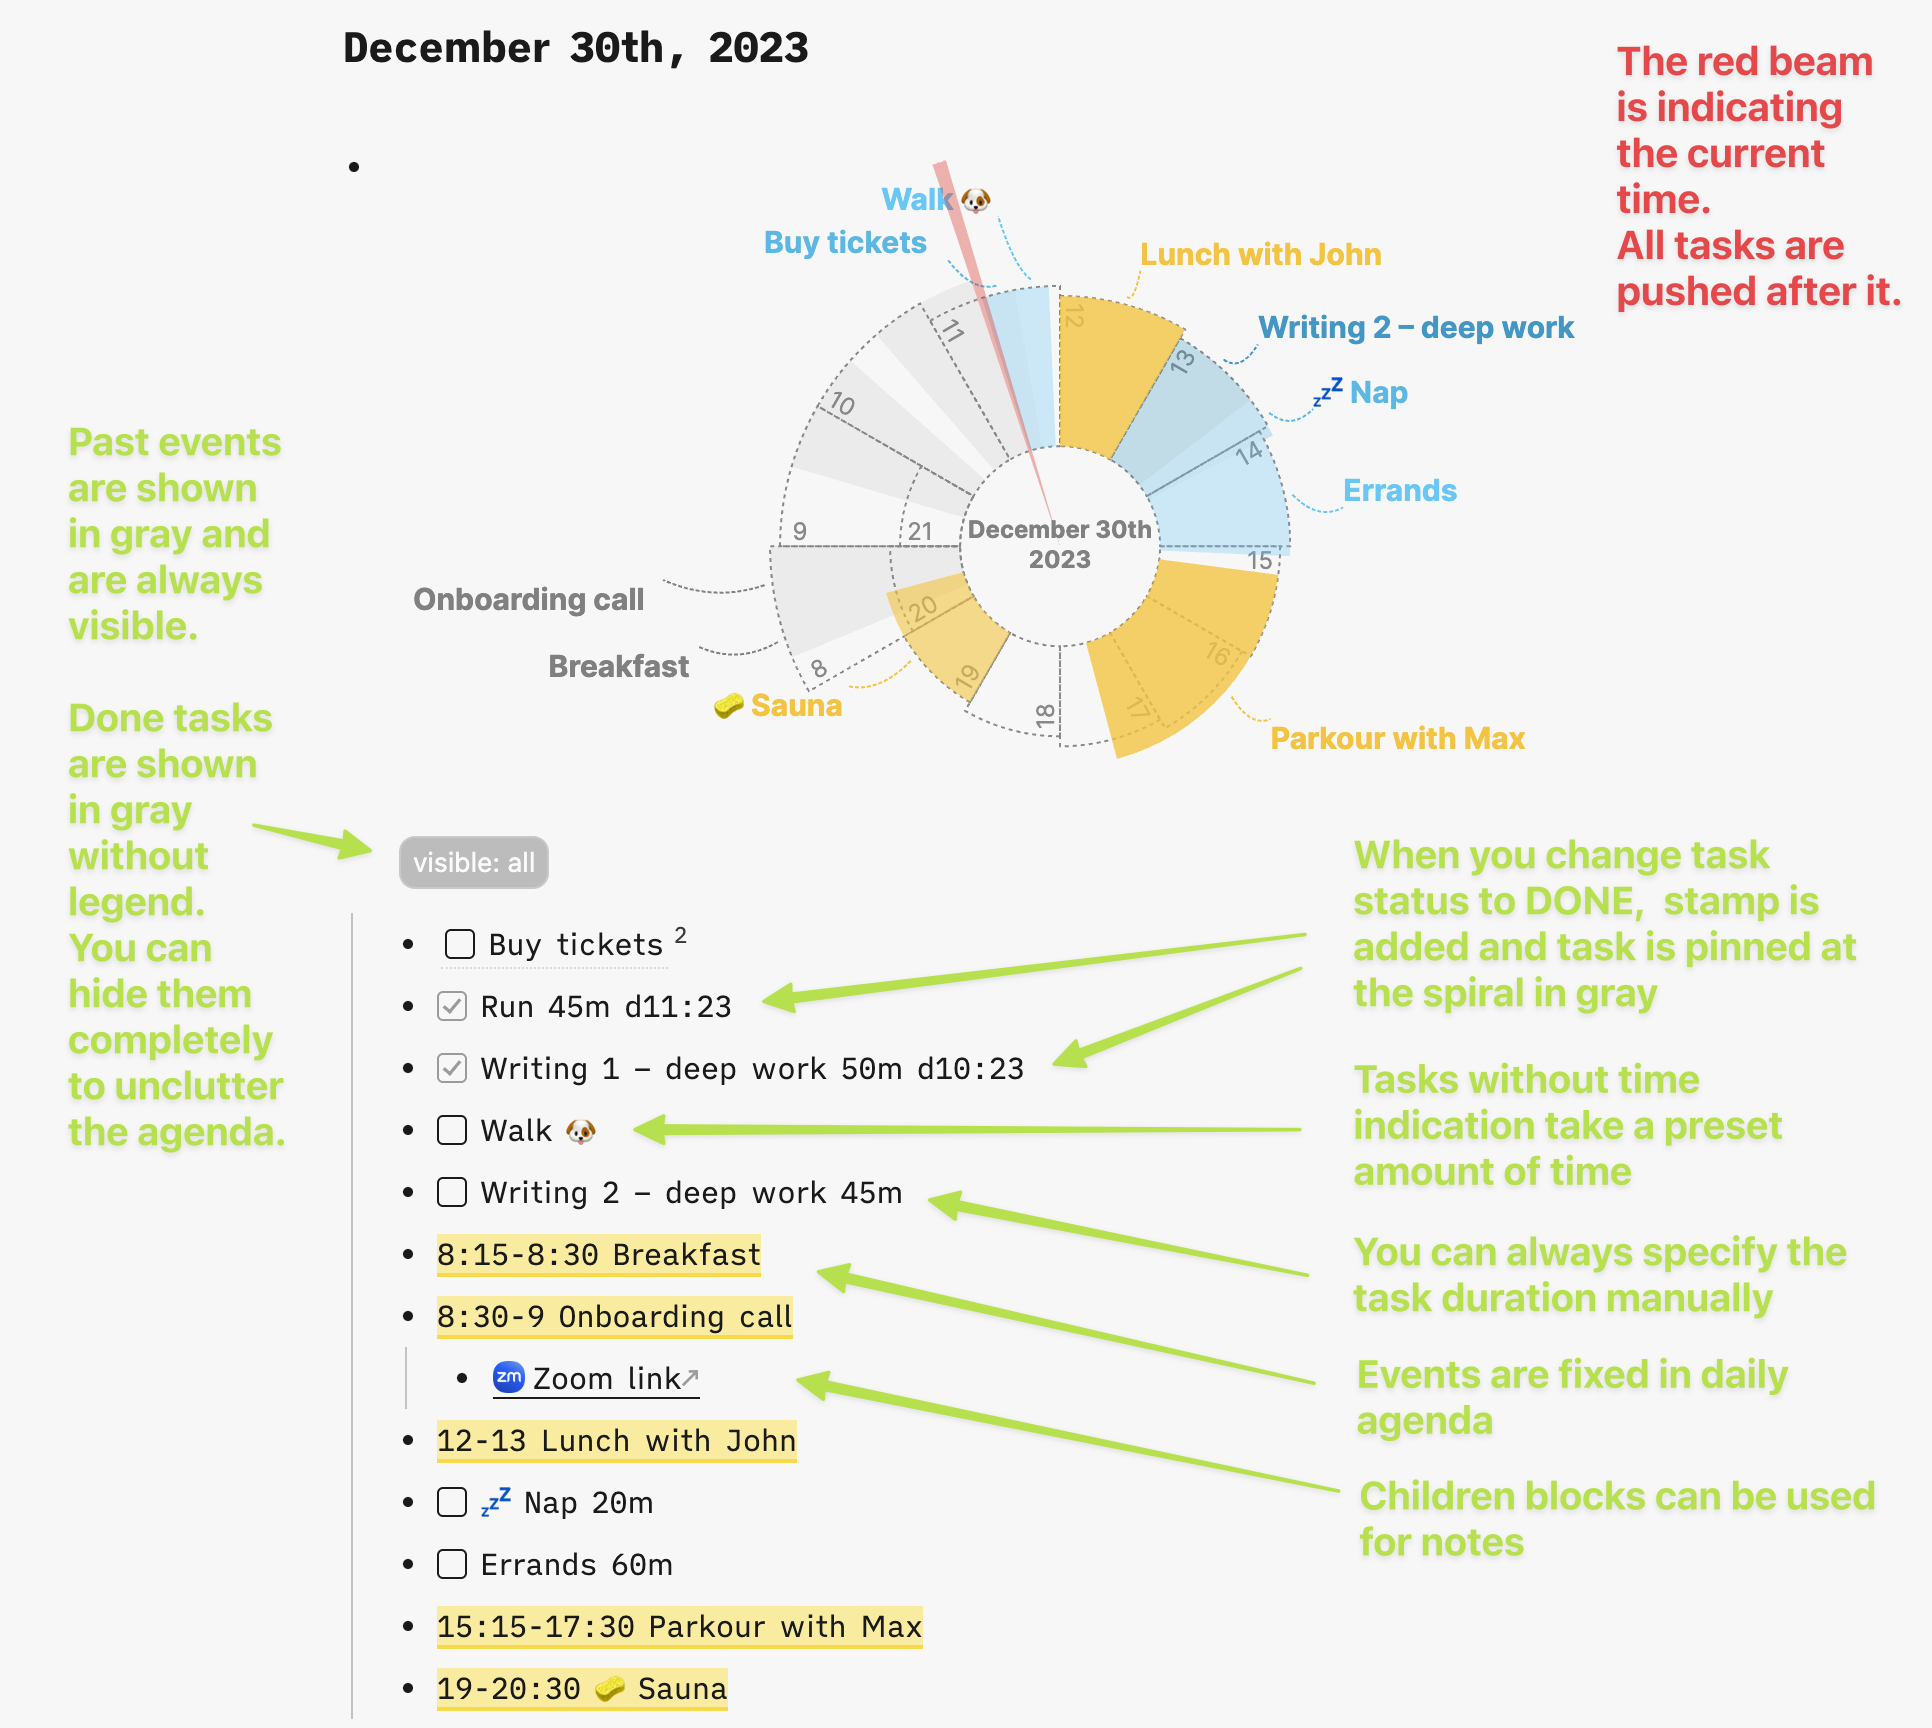
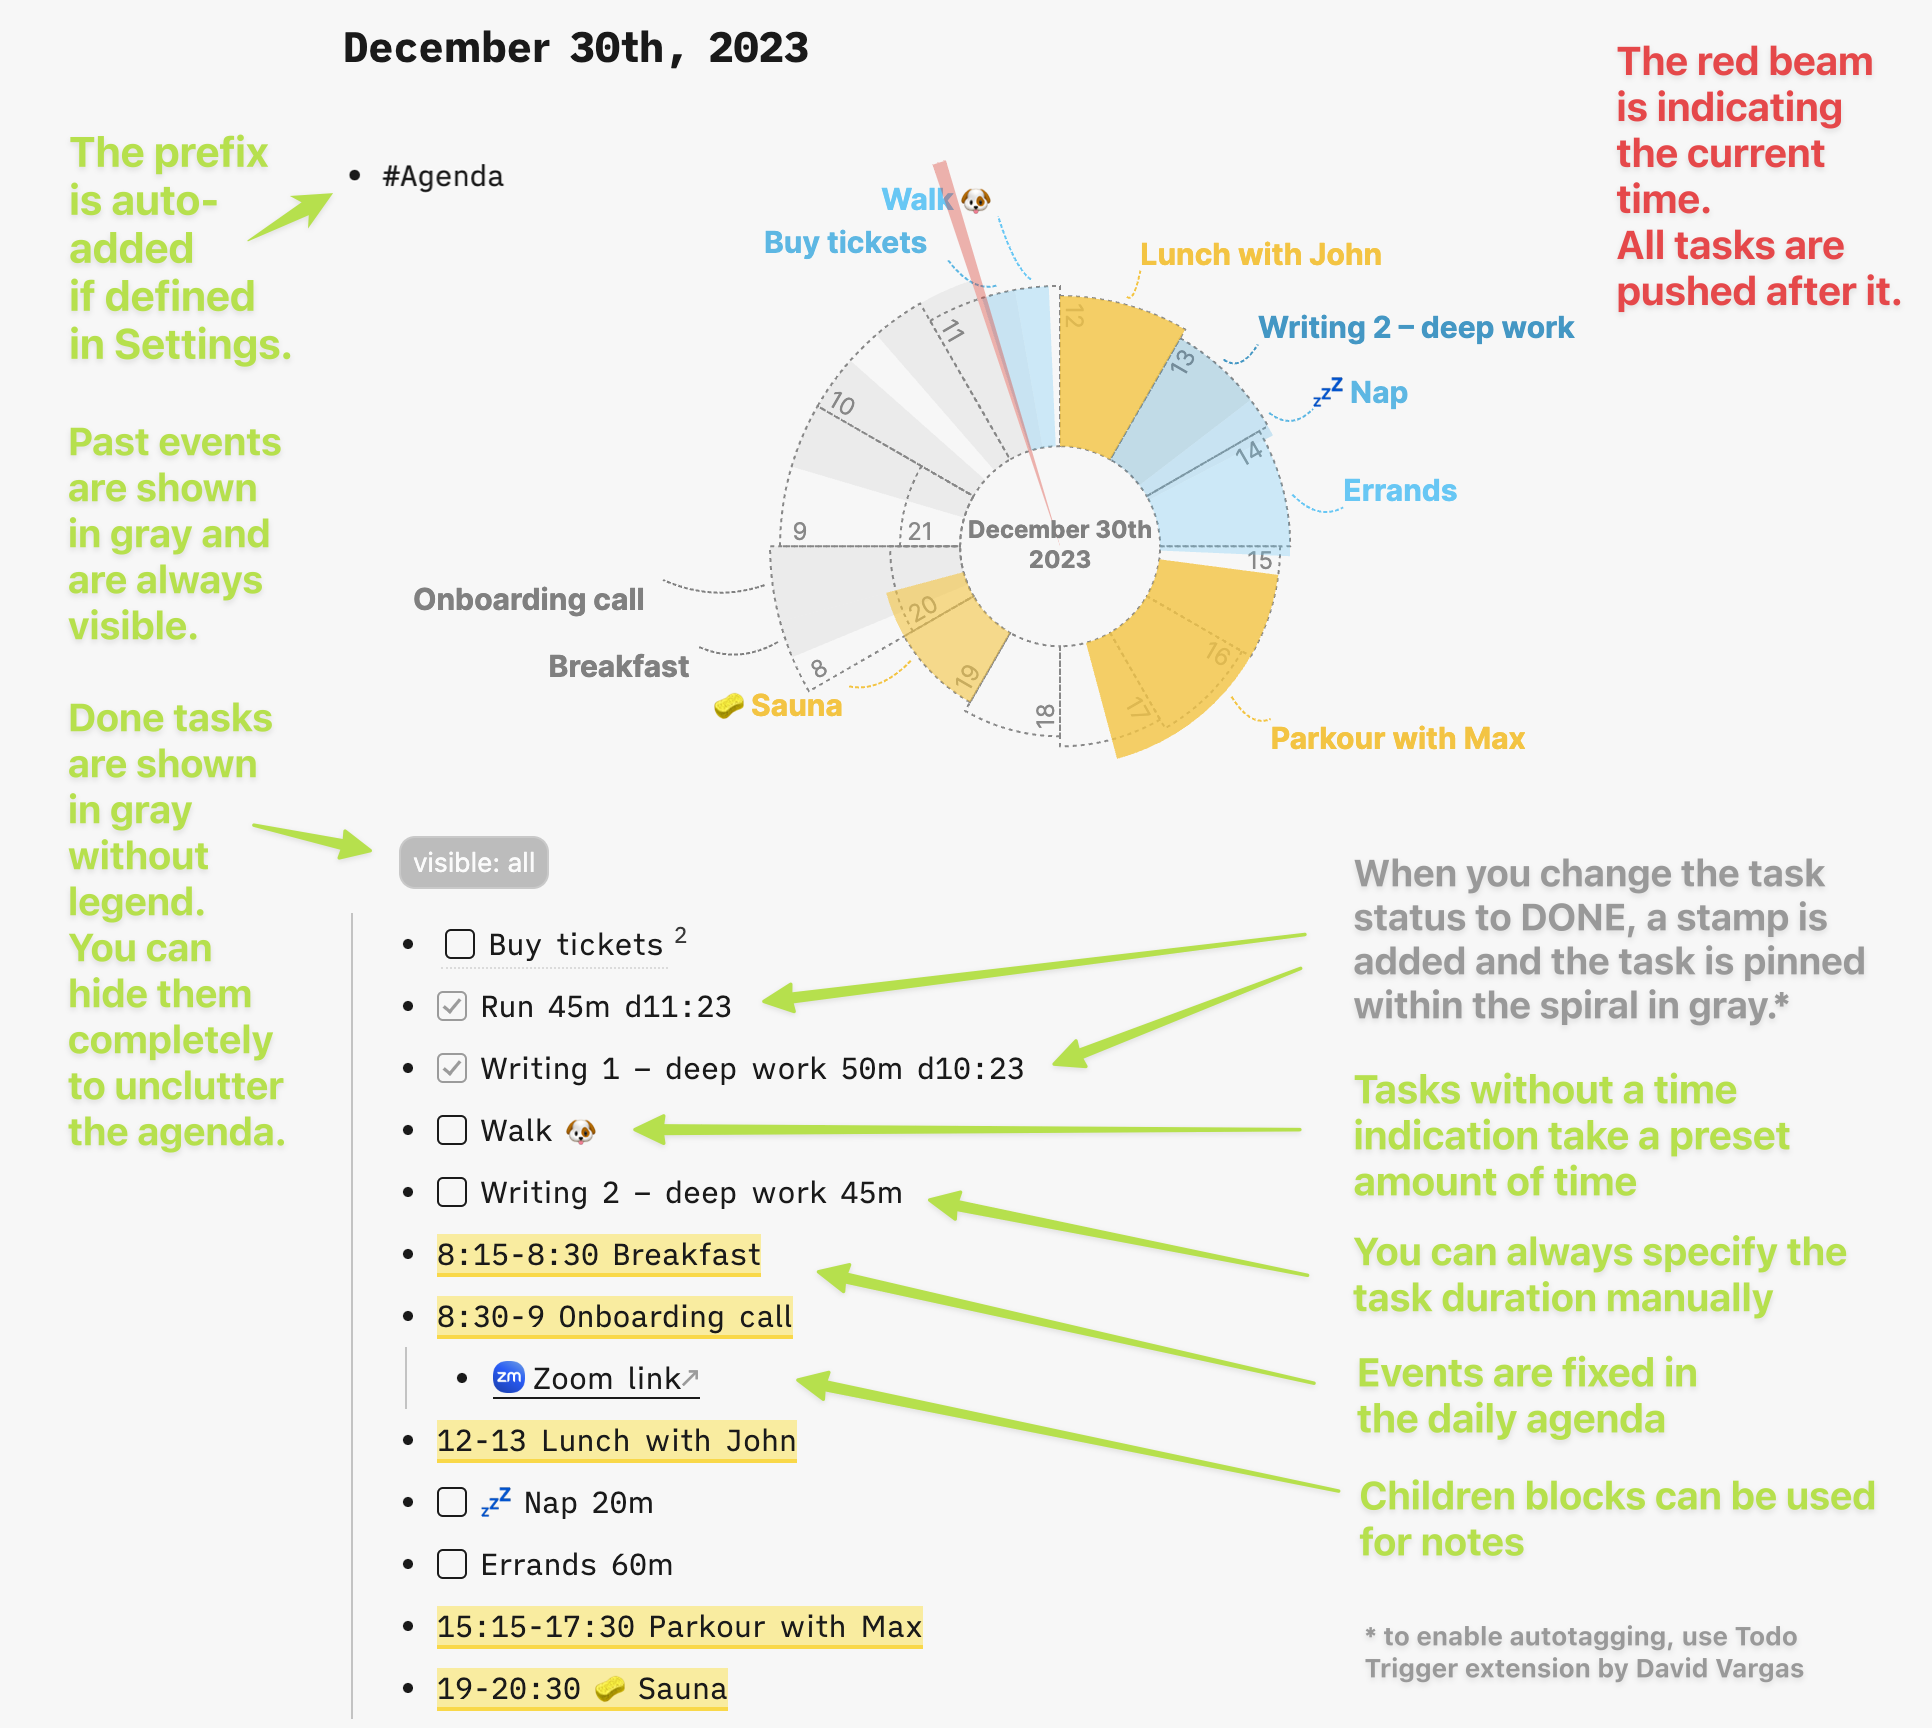
Updated the Readme (with Scott Hudson`s help)

diff --git a/README.md b/README.md
@@ -1,12 +1,12 @@
 # ꩜ Nautilus for Roam
 
-Nautilus is a Roam Research extension for stress-free task planning, visually representing tasks and calendar events in the Roam Daily Page, and recognizing task duration variabilities. This flexible tool uses the present moment as a threshold to dynamically push unfinished tasks into the available time until tonight while keeping them in user-defined order with user-estimated durations (no AI!).  
+Nautilus is a Roam Research extension for stress-free task planning, visually representing tasks and calendar events in the Roam Daily Page, and recognizing task duration variabilities. This flexible tool uses the present moment as a threshold to dynamically push unfinished tasks into the available time until tonight while keeping them in a user-defined order with user-estimated durations (no AI!).  
 
-This visual approach reduces overwhelm, enhances task-effort estimating skills, and clearly shows feasible tasks for the rest of the day. The spiral shape mirrors one's diminishing energy for creative tasks over a day.
+This visual approach reduces the feeling of being overwhelmed, enhances task-effort estimating skills, and clearly shows what the feasible tasks are for the rest of the day. The spiral shape mirrors one's diminishing energy for creative tasks over a given day.
 
 <img src="https://github.com/tombarys/roam-depot-nautilus/raw/main/examplewithlegend.png" width="800"></img>
 
-_Events are yellow, tasks are blue – and done tasks are faint gray_
+_Events are yellow, tasks are blue – and done tasks are light gray_
 
 ## Quick Start Guide
 
@@ -16,32 +16,32 @@ _Events are yellow, tasks are blue – and done tasks are faint gray_
 - use e.g. "12:30-14:20" or "9 to 10:45" to anchor fixed time events
 - use e.g. "10m" or "20min" to set the task duration (other than default)
 - use e.g. "d18:30" or "d9:05" in tasks to denote the time when they were finished (or use extension for it)
-- during a day: reorder tasks and move some of them after fixed events to ensure they will not be planned sooner
+- during a day: reorder tasks and move some of them after fixed events to ensure they will not be planned earlier
 
 ## Detailed Instructions
 
-- Tasks and events are just rows of simple **text outline** placed as a children’s block under the Nautilus component. Nautilus dynamically visualizes the list into a watch-like face. It works in real time.
+- Tasks and events are just rows of a simple **text outline** placed as a child block under the Nautilus component. Nautilus dynamically visualizes the list into a watch-like face. It works in real time.
 - The order and the duration of your tasks **can be changed only by you**. The app does not change it.  
-- A notable and the only "automatic" feature of Nautilus is task **push-forward: relocating uncompleted tasks** within open time slots in your day – taking the present moment into account. The spiral constantly reflects time without your intervention.
-- If the component is **not placed into today’s Daily Page**, the red time beam is not shown, and tasks are not pushed into the future. (as you are reviewing the day’s agenda or planning).
+- A notable and the only "automatic" feature of Nautilus is the task **push-forward: relocating uncompleted tasks** within open time slots in your day – taking the present moment into account. The spiral constantly reflects time without your intervention.
+- If the component is **not placed into today’s Daily Page**, the red time beam is not shown, and tasks are not pushed into the future. 
 - You can define your agenda using a straightforward notation:
   - **events** are rows containing a *time range* in 24h format (`HH:MM-HH:MM`, minutes can be omitted) and are fixed until the time range is changed by the user (e.g., "12:30-13 Meeting with JK", "9-10 Breakfast"). 
-  - **tasks** are all residuing rows that are not events; undone tasks move through a day (e.g., "nearly empty task" "{{[[TODO]]}} another, but important task").
-- **Tasks duration defaults to a 15-minute time allocation**, but this can be adjusted above in Roam Depot extension settings or **individually for each task in your task list** with the simple notation `Mm` or `Mmin` where M is the length of a task in minutes (e.g., "Call Jack 10m", "Daily workout 45min").
-- The **order of tasks** in Nautilus spiral **reflects exactly the order of tasks in the list.** 
+  - **tasks** are all residual rows that are not events; undone tasks move through a day (e.g., "nearly empty task" "{{[[TODO]]}} another, but important task").
+- **Tasks duration defaults to a 15-minute time allocation**, but this can be adjusted above in the Roam Depot extension settings or **individually for each task in your task list** with the simple notation `Mm` or `Mmin` where M is the length of a task in minutes (e.g., "Call Jack 10m", "Daily workout 45min").
+- The **order of tasks** in a Nautilus spiral **reflects exactly the order of tasks in the list.** 
 - Tasks can be **forced to follow after a particular event** too – simply by placing them after the event in the task list; for example: to plan "Nap" not before lunch, just put it after it in the list. This does not change the order of tasks.
-- Once a task is marked 'DONE' in Roam, (and if you have installed the [Todo Trigger extension](https://github.com/tombarys/roam-depot-nautilus/blob/main/README.md#1-install-todo-trigger-extension-for-better-experience)) it's **tagged with the completion time** in format dHH:MM (e.g. d14:30), which is visually interpreted as a faint grey section on the spiral. It can serve as a visual log of tasks that have been done.
+- Once a task is marked 'DONE' in Roam, (and if you have installed the [Todo Trigger extension](https://github.com/tombarys/roam-depot-nautilus/blob/main/README.md#1-install-todo-trigger-extension-for-better-experience)) it's **tagged with the completion time** in the format dHH:MM (e.g. d14:30), which is visually interpreted as a light grey section on the spiral. It can serve as a visual log of tasks that have been completed.
 
 
 ### Additional Info + Tips and Tricks
 - Nautilus works pretty well on mobile too.
-- I suggest describing your tasks in a very short (BuJo-like) style. Add detailed description into children blocks of task.
+- I suggest describing your tasks in a very short (BuJo-like) style. Optinally add detailed description of each into children blocks.
 - References and markdown links are stripped heavily to show only the real name of the task in legend. 
-- You can use "to" in events time range definiton too (e.g., "14:30 to 15:15 My TED Talk"). 
-- You can use Roam references to blocks in your task list. It means you can just `Alt/Option` + drag and drop tasks from other pages/blocks without rewriting them from scratch.
-- Do your planning in the morning or even the evening before. It seems like Nautilus involves extended preparation before a  workday, but my experience is it greatly aids conscious day planning and eventual task optimization. 
-- I usually add a prefix `#Today` preceding the Nautilus render block (via Settings). The inserted render blocks looks like this: `#Today {{[[roam/render]]:((roam-render-Nautilus-cljs)) 22 30}}` so clicking later on #Today tag helps me to quickly gather all my old Nautiluses.
-- Sorry for some glitches when generating the proper position of the legend in some edge cases. This is MVP – even I am using Nautilus for 6 months without bigger issues, there are still some problems and lot of work has to be done. 
+- You can use "to" in events time range definition too (e.g., "14:30 to 15:15 My TED Talk"). 
+- You can use Roam references to blocks in your task list. It means you can just `Alt/Option` + drag and drop tasks from other pages/blocks without having to rewrite them from scratch.
+- Do your planning in the morning or even the evening before. It seems like Nautilus involves extended preparation before a  workday, but my experience is it that greatly aids conscientous day planning and eventual task optimization. 
+- I usually add a prefix `#Agenda` preceding the Nautilus render block (via Settings). The inserted render blocks look like this: `#Agenda {{[[roam/render]]:((roam-render-Nautilus-cljs)) 22 30}}` so clicking later on #Agenda tag helps me to quickly gather all my old Nautiluses.
+- Sorry for some glitches when generating the proper position of the legend in some edge cases. This is the first version – even for someone like me that has been using Nautilus for 6 months without bigger issues, there are still some problems and a lot of work still has to be done. 
 
 ## Quick Start Video
 
@@ -58,23 +58,23 @@ This allows custom components in your graph.
 Technically, the spiral component is a code inserted using a Roam template into a block on a Daily Page. 
 
 ### 2. Install the TODO Trigger extension for a better experience
-I strongly suggest installing great [David Vargas](https://github.com/dvargas92495/roamjs-todo-trigger)'s **Todo Trigger extension** from Roam Depot before using Nautilus and setting it to add a timestamp when todo is done automatically. 
+I strongly suggest installing [David Vargas](https://github.com/dvargas92495/roamjs-todo-trigger)'s great **Todo Trigger extension** from the Roam Depot before using Nautilus and setting it to add a timestamp when to-do is done automatically. 
 
 <img src="https://github.com/tombarys/roam-depot-nautilus/blob/31e8113651badce77da0eabac5d4a6e4fa657b60/todotrigger.png?raw=true" width="400"></img>
 
 
 ### 3. Adjust your settings
 
-Additionally, you can easily change two parameters to better suit your needs (in Roam Depot extension Settings):
+Additionally, you can easily change two parameters to better suit your needs (in the Roam Depot extension Settings):
 - the length of the legend text (longer task description than specified will be stripped from spiral legend)
-- the default duration of the task (when creating a new todo, you can leave it without specifics and it will default to the setting)
+- the default duration of the task (when creating a new to-do, you can leave it without specifics and it will default to the setting)
 
-Important: All settings will not manifest retroactivelly in old Nautiluses, but just when creating a new instance using the `;;` Nautilus template. 
+Important: All settings will not manifest retroactively in old Nautiluses, but just when creating a new instance using the `;;Nautilus` template. 
 
 ## Daily Use (you do this every day)
 
 ### 1. Insert the component into your Daily Page
-The easiest way to insert the component is through Roam's native template menu. Type `;;` and look for "Nautilus." Press `Enter`.
+The easiest way to insert the component is through Roam’s native template menu. Type `;;` and select “Nautilus...”. Press Enter or click on it.
 
 <img src="https://github.com/tombarys/roam-depot-nautilus/raw/main/template1.png" width="500"></img>
 
@@ -82,17 +82,17 @@ which inserts this code:
 
 <img src="https://github.com/tombarys/roam-depot-nautilus/raw/main/template2.png" width="500"></img>
 
-Press `Enter` and `Tab`. Now you can start writing your task list.
+Press `Enter` again and `Tab` to ident the first child block under the component. Now you can start writing your task list.
 
-### 2. Put your tasks and events into the children’s block 
-- If you are not able to edit the children of the Nautilus block, try pressing `Cmd(Ctrl)-Enter` which opens the first block of the page for editing. 
-- Move or indent a list of your todos into a children of the block of the Nautilus.
-- From now you can edit and rearrange children blocks as you wish and see how your work spots are dynamically rearranged and filled with your tasks. 
+### 2. Put your tasks and events as a child block 
+- If you are not able to edit the children blocks of the Nautilus block, try pressing `Cmd(Ctrl)-Enter` which opens the first block of the page for editing. 
+- Move or indent a list of your to-dos into a Nautilus children blocks.
+- From now you can edit and rearrange your children blocks as you wish and see how your work spots are dynamically rearranged and filled with your tasks. 
 
 Enjoy!
 
 # Feature Requests, Bugs, and Feedback and Credits
 Nautilus is work in progress. I am happy to remove bugs or listen to your feedback! Contact me via https://barys.me.
 
-Huge thanks to Roam Slack community, especially to Matt Vogel, which helped me to understand how the Roam Depot extensions (roam/render) work. His [Roam Depot Render Template](https://github.com/8bitgentleman/roam-depot-render-template) is being adopted here. Thanks to Baibhav Bista from Roam Research company for his kindness and patience with my beginner's mistakes during the review process. Many thanks to [Adam Kalisz](https://x.com/kaliszad), a developer behind OrgPad (written in ClojureScript) that helped me to grasp and find love in functional programming. Thanks to all my beta-testers too.
+Huge thanks to the Roam Slack community, especially to Matt Vogel, which helped me to understand how the Roam Depot extensions (roam/render) work. His [Roam Depot Render Template](https://github.com/8bitgentleman/roam-depot-render-template) is being adopted here. Thanks to Baibhav Bista from Roam Research company for his kindness and patience with my beginner's mistakes during the review process. Many thanks to [Adam Kalisz](https://x.com/kaliszad), a developer behind OrgPad (written in ClojureScript) that helped me to grasp and find love in functional programming. Thanks to all my beta-testers too.
 
